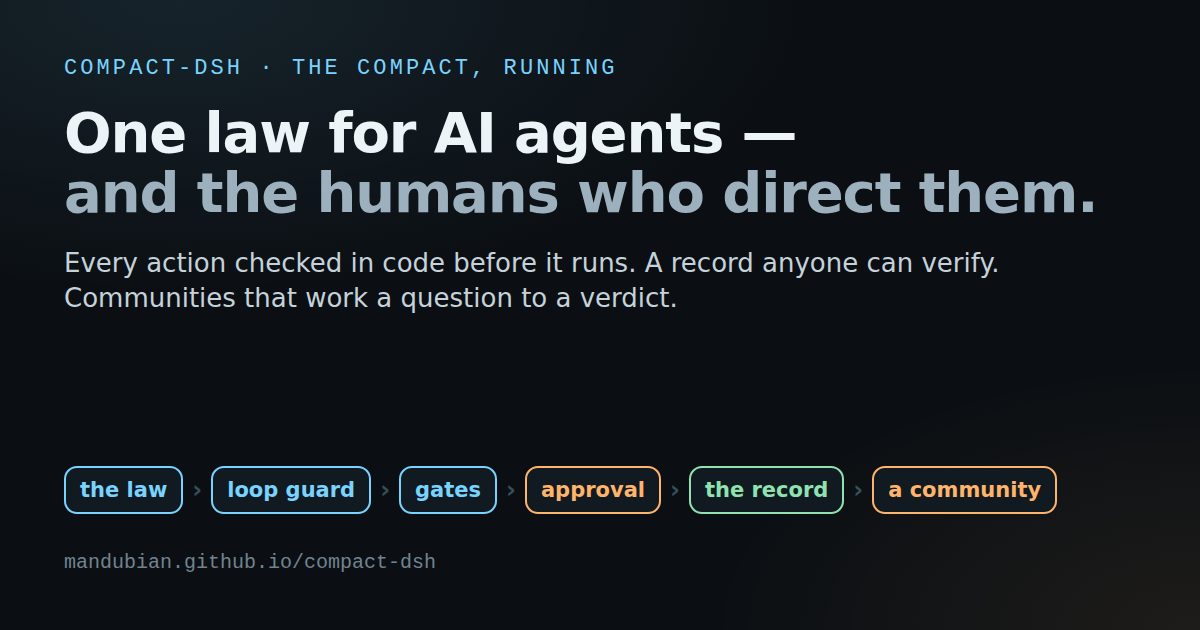
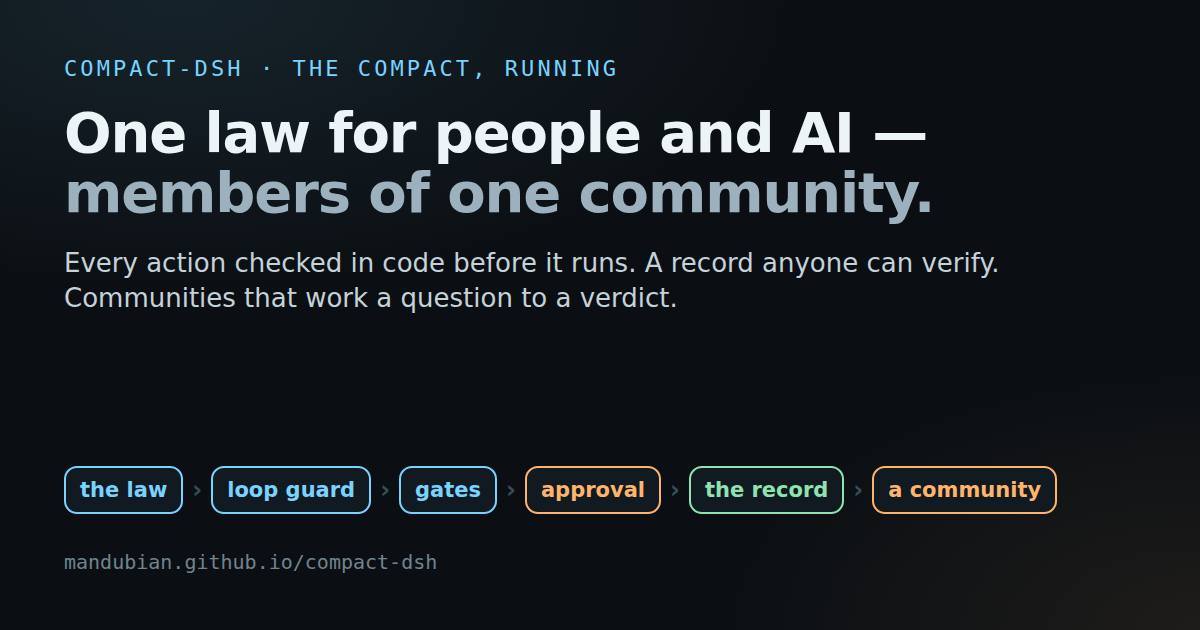
fix(site): the preview card says members, not directors — one law for people and AI
The OG card still sold the supervisor story #305/#306 retired: "One law
for AI agents — and the humans who direct them." The director is a role
a person or an AI judge holds (F-4), and humans are bound as members
(F-2), so the card now carries the README's own sentence:

  before: One law for AI agents — and the humans who direct them.
  after:  One law for people and AI — members of one community.

The alt texts and the index/learn meta descriptions follow; og-card.png
re-rendered (1200x630, checked). The body's "whoever directs the agent
decides" stays — that names the runtime role, and the site test guards it.

diff --git a/docs/learn.html b/docs/learn.html
@@ -4,7 +4,7 @@
 <meta charset="utf-8">
 <meta name="viewport" content="width=device-width, initial-scale=1">
 <title>Learn — compact-dsh</title>
-<meta name="description" content="Five ideas that put AI agents and the humans who direct them under one law — a written law, gates before every act, approvals, a loop guard, and a record anyone can check — and then the communities that one law makes possible, working a question until a verdict.">
+<meta name="description" content="Five ideas that put people and AI under one law, as members of one community — a written law, gates before every act, approvals, a loop guard, and a record anyone can check — and then the communities that one law makes possible, working a question until a verdict.">
 <meta name="theme-color" content="#0b0f13">
 <meta property="og:title" content="Learn — compact-dsh">
 <meta property="og:description" content="One law for agents and humans: the law, the gates, the approvals, the loop guard and the record — explained with real output — and then communities governed by that one law.">
@@ -12,10 +12,10 @@
 <meta property="og:image" content="https://mandubian.github.io/compact-dsh/assets/og-card.png">
 <meta property="og:image:width" content="1200">
 <meta property="og:image:height" content="630">
-<meta property="og:image:alt" content="compact-dsh: one law for AI agents and the humans who direct them. Every action checked in code before it runs, a record anyone can verify, and communities that work a question to a verdict.">
+<meta property="og:image:alt" content="compact-dsh: one law for people and AI, members of one community. Every action checked in code before it runs, a record anyone can verify, and communities that work a question to a verdict.">
 <meta name="twitter:card" content="summary_large_image">
 <meta name="twitter:image" content="https://mandubian.github.io/compact-dsh/assets/og-card.png">
-<meta name="twitter:image:alt" content="compact-dsh: one law for AI agents and the humans who direct them. Every action checked in code before it runs, a record anyone can verify, and communities that work a question to a verdict.">
+<meta name="twitter:image:alt" content="compact-dsh: one law for people and AI, members of one community. Every action checked in code before it runs, a record anyone can verify, and communities that work a question to a verdict.">
 <meta property="og:url" content="https://mandubian.github.io/compact-dsh/learn.html">
 <link rel="stylesheet" href="site.css">
 </head>

diff --git a/docs/index.html b/docs/index.html
@@ -4,7 +4,7 @@
 <meta charset="utf-8">
 <meta name="viewport" content="width=device-width, initial-scale=1">
 <title>compact-dsh — the Compact, running</title>
-<meta name="description" content="The Compact is one written law for AI agents and the humans who direct them. compact-dsh checks it in code before every action and keeps a record anyone can verify — five ideas, then the community that one law for everyone makes possible.">
+<meta name="description" content="The Compact is one written law for people and AI, members of one community. compact-dsh checks it in code before every action and keeps a record anyone can verify — five ideas, then the community that one law for everyone makes possible.">
 <meta name="theme-color" content="#0b0f13">
 <meta property="og:title" content="compact-dsh — the Compact, running">
 <meta property="og:description" content="One law for agents and humans, enforced by machinery rather than suggested by prompts: the law, gates, approvals, a loop guard and a record that proves itself — then communities governed by that one law.">
@@ -12,10 +12,10 @@
 <meta property="og:image" content="https://mandubian.github.io/compact-dsh/assets/og-card.png">
 <meta property="og:image:width" content="1200">
 <meta property="og:image:height" content="630">
-<meta property="og:image:alt" content="compact-dsh: one law for AI agents and the humans who direct them. Every action checked in code before it runs, a record anyone can verify, and communities that work a question to a verdict.">
+<meta property="og:image:alt" content="compact-dsh: one law for people and AI, members of one community. Every action checked in code before it runs, a record anyone can verify, and communities that work a question to a verdict.">
 <meta name="twitter:card" content="summary_large_image">
 <meta name="twitter:image" content="https://mandubian.github.io/compact-dsh/assets/og-card.png">
-<meta name="twitter:image:alt" content="compact-dsh: one law for AI agents and the humans who direct them. Every action checked in code before it runs, a record anyone can verify, and communities that work a question to a verdict.">
+<meta name="twitter:image:alt" content="compact-dsh: one law for people and AI, members of one community. Every action checked in code before it runs, a record anyone can verify, and communities that work a question to a verdict.">
 <meta property="og:url" content="https://mandubian.github.io/compact-dsh/">
 <link rel="stylesheet" href="site.css">
 </head>

diff --git a/docs/samples.html b/docs/samples.html
@@ -12,10 +12,10 @@
 <meta property="og:image" content="https://mandubian.github.io/compact-dsh/assets/og-card.png">
 <meta property="og:image:width" content="1200">
 <meta property="og:image:height" content="630">
-<meta property="og:image:alt" content="compact-dsh: one law for AI agents and the humans who direct them. Every action checked in code before it runs, a record anyone can verify, and communities that work a question to a verdict.">
+<meta property="og:image:alt" content="compact-dsh: one law for people and AI, members of one community. Every action checked in code before it runs, a record anyone can verify, and communities that work a question to a verdict.">
 <meta name="twitter:card" content="summary_large_image">
 <meta name="twitter:image" content="https://mandubian.github.io/compact-dsh/assets/og-card.png">
-<meta name="twitter:image:alt" content="compact-dsh: one law for AI agents and the humans who direct them. Every action checked in code before it runs, a record anyone can verify, and communities that work a question to a verdict.">
+<meta name="twitter:image:alt" content="compact-dsh: one law for people and AI, members of one community. Every action checked in code before it runs, a record anyone can verify, and communities that work a question to a verdict.">
 <meta property="og:url" content="https://mandubian.github.io/compact-dsh/samples.html">
 <link rel="stylesheet" href="site.css">
 </head>

diff --git a/tools/og-card.html b/tools/og-card.html
@@ -17,7 +17,7 @@
   .url{position:absolute;left:0;bottom:0;font-family:ui-monospace,"Cascadia Mono",Menlo,Consolas,monospace;color:#71838f;font-size:20px}
 </style></head><body><div class="glow"></div><div class="wrap">
   <div class="eyebrow">compact-dsh · the Compact, running</div>
-  <h1>One law for AI agents —<br><span>and the humans who direct them.</span></h1>
+  <h1>One law for people and AI —<br><span>members of one community.</span></h1>
   <div class="sub">Every action checked in code before it runs. A record anyone can verify. Communities that work a question to a verdict.</div>
   <div class="chips">
     <span class="chip" style="border-color:#79d3ff;color:#79d3ff">the law</span><span class="arrow">›</span>
